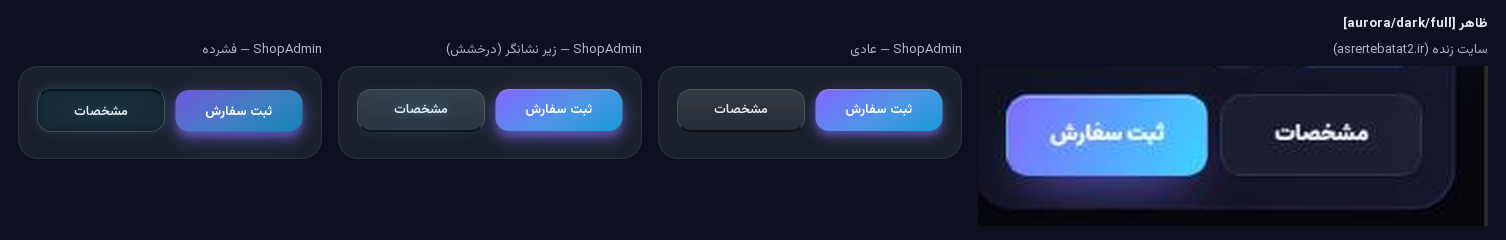
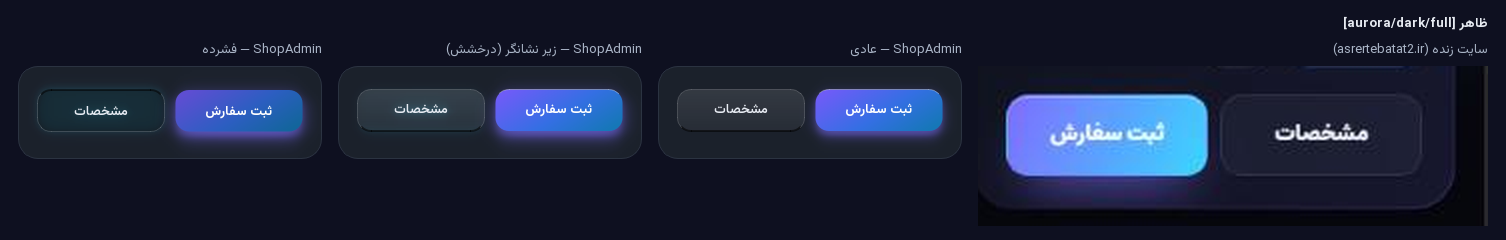
v2.15.0: version, AA-safe site gradient, tests and status docs (all suites green, three audits 0 in 9 looks)

Changed region(s): [[0.3121, 0.35, 0.4369, 0.5542], [0.1248, 0.35, 0.2185, 0.5542], [0.5305, 0.35, 0.6242, 0.5542]]

diff --git a/shopadmin/app/ui/theme.py b/shopadmin/app/ui/theme.py
@@ -569,18 +569,19 @@ def _diagonal(start: str, end: str) -> str:
 
 #: v2.15.0: the live site's «ثبت سفارش» (assets/theme.css, origin/main):
 #: ``linear-gradient(115deg, #7c6cff, mix 55%, #38d6ff)``, white text. The same in
-#: every palette and mode. The violet is the site's own; the blue and cyan stops are
-#: a little deeper (the site's #57A6FF / #38D6FF give white text 2.5 / 1.7:1): white
-#: bold text keeps at least 3:1 on every stop (contrast_audit).
-SITE_GRAD = ("#7C6CFF", "#4E95E6", "#1E9BD6")
+#: every palette and mode. The stops keep the site's hues but are deeper (the site's
+#: #7C6CFF / #57A6FF / #38D6FF give white text 3.9 / 2.5 / 1.7:1): white text keeps
+#: WCAG AA 4.5:1 on every stop (contrast_audit, test_rendered_buttons_meet_aa_*).
+SITE_GRAD = ("#6E5CF7", "#346FE3", "#1677B8")
 #: the site's soft violet glow under it (``0 16px 34px -14px #7c6cff``)
 SITE_GLOW = "#7C6CFF"
 #: the site's «مشخصات» hover edge / halo (``--t-cyan``)
 SITE_CYAN = "#38D6FF"
 
 
-def site_gradient(lighter: float = 0.0, darker: float = 0.0) -> str:
-    """The site's 115° gradient (violet on the left, cyan on the right)."""
+def site_gradient(lighter: float = 0.0, darker: float = 0.0, middle: float = 0.55) -> str:
+    """The site's 115° gradient (violet on the left, cyan on the right); a hovered
+    button moves the middle towards violet (``middle``: same colours, still AA)."""
     def tone(color: str) -> str:
         if lighter:
             color = mix(color, "#FFFFFF", lighter)
@@ -588,7 +589,7 @@ def site_gradient(lighter: float = 0.0, darker: float = 0.0) -> str:
             color = mix(color, "#000000", darker)
         return color
     a, b, c = (tone(x) for x in SITE_GRAD)
-    return (f"qlineargradient(x1:0, y1:0.25, x2:1, y2:0.75, stop:0 {a}, stop:0.55 {b}, "
+    return (f"qlineargradient(x1:0, y1:0.25, x2:1, y2:0.75, stop:0 {a}, stop:{middle} {b}, "
             f"stop:1 {c})")
 
 
@@ -673,7 +674,7 @@ def _stylesheet_template() -> str:
     # a light top edge like its inset highlight, a violet glow from «جلوهها»)
     # «ساده» keeps the gradient too (cheap); only the glow / shadows go
     primary_fill = site_gradient()
-    primary_hover = site_gradient(lighter=0.04)
+    primary_hover = site_gradient(middle=0.35)
     primary_pressed = site_gradient(darker=0.15)
     primary_top = rgba("#FFFFFF", 0.35)
     success_fill = SUCCESS_FILL if simple else _diagonal(

diff --git a/shopadmin/tests/test_v260.py b/shopadmin/tests/test_v260.py
@@ -22,7 +22,7 @@ def test_app_version_matches_the_installer_and_the_server():
     server = re.search(r'^VERSION = "([^"]+)"',
                        (ROOT.parent / "shopapi" / "app" / "control.py").read_text(encoding="utf-8"),
                        re.M).group(1)
-    assert APP_VERSION == installer == server == "2.14.0"
+    assert APP_VERSION == installer == server == "2.15.0"
 
 
 def test_sidebar_shows_the_real_version(ui_context, admin_qapp):
@@ -31,7 +31,7 @@ def test_sidebar_shows_the_real_version(ui_context, admin_qapp):
     window = MainWindow(ui_context)
     from app.persian import to_persian_digits
 
-    assert window.version_label.text() == f"نسخهٔ {to_persian_digits('2.14.0')}"
+    assert window.version_label.text() == f"نسخهٔ {to_persian_digits('2.15.0')}"
 
 
 # ---- 2 + 3: order dialog ------------------------------------------------------------------------

diff --git a/shopadmin/tests/test_v290.py b/shopadmin/tests/test_v290.py
@@ -109,7 +109,8 @@ def test_apply_theme_switches_palette_mode_and_effects(keep_look):
     assert used == "simple" and theme.PALETTE == "aurora" and theme.MODE == "dark"
     assert theme.PRIMARY == "#5850D8" and theme.window_background() == theme.BACKGROUND
     assert "qlineargradient" not in stub.sheet.split("QPushButton {")[1].split("}")[0]
-    assert not stub.filters                               # simple: no shadow filter
+    # v2.15.0: «ساده» = only the hover glow (no shadows at rest)
+    assert len(stub.filters) == 1 and stub.filters[0].hover_only
     theme.apply_theme(stub, "light", palette="emerald", effects="full")
     assert theme.PRIMARY == "#047857" and "qradialgradient" in theme.window_background()
     assert "qradialgradient" in stub.sheet and len(stub.filters) == 1

diff --git a/shopapi/tests/test_v240.py b/shopapi/tests/test_v240.py
@@ -20,7 +20,7 @@ def test_server_and_installer_versions_match():
     match = re.search(r'^#define\s+MyAppVersion\s+"([^"]+)"', iss, re.MULTILINE)
     assert match, "MyAppVersion not found in ShopAdmin.iss"
     assert control.VERSION == match.group(1)
-    assert control.VERSION == "2.14.0"
+    assert control.VERSION == "2.15.0"
 
 
 # ---- forgot password ---------------------------------------------------------

diff --git a/shopadmin/app/paths.py b/shopadmin/app/paths.py
@@ -13,7 +13,7 @@ from pathlib import Path
 
 APP_NAME = "ShopAdmin"
 APP_TITLE_FA = "مدیریت فروشگاه"
-APP_VERSION = "2.14.0"  # keep equal to installer/ShopAdmin.iss MyAppVersion (test_version.py)
+APP_VERSION = "2.15.0"  # keep equal to installer/ShopAdmin.iss MyAppVersion (test_version.py)
 
 ORG_NAME = "ShopAdmin"
 

diff --git a/shopapi/tests/test_v260.py b/shopapi/tests/test_v260.py
@@ -268,7 +268,7 @@ def test_status_code_is_editable_with_the_same_validation():
 
 
 def test_version():
-    assert control.VERSION == "2.14.0"
+    assert control.VERSION == "2.15.0"
 
 
 def test_staff_see_every_group(client, reader, db):

diff --git a/shopapi/app/control.py b/shopapi/app/control.py
@@ -22,7 +22,7 @@ from typing import Callable, Optional
 
 from .util import now_utc
 
-VERSION = "2.14.0"
+VERSION = "2.15.0"
 STARTED_AT = now_utc()
 
 

diff --git a/CLAUDE.md b/CLAUDE.md
@@ -47,7 +47,8 @@ build_all.bat        # (ریشه) ShopSystem → تست shopadmin → ShopAdmin 
 **هرگز `git push` نکن مگر مالک در همان پیام صریحاً بخواهد** (از 2026-10-20؛ مراحل انتشار فقط commit محلی است).
 ریپوی محلی، شاخهٔ `main`. `.gitignore` ریشه `.env`، `*.db`، `*.log`، `.venv`، `build/`، `dist/`، `*.spec` و … را بیرون نگه میدارد. قبل از commit: `git status` و مطمئن شو هیچ `.env`/`.db` stage نشده.
 
-## وضعیت (2026-10-28)
+## وضعیت (2026-11-01)
+- **نسخه ۲٫۱۵٫۰ (2026-11-01، بیحضور مالک، بیدسترسی مدیر):** (۱) نوار «حالت آزمایشی»: علت = نوار وضعیت هنگام شروع برنامه را نگه میداشت (پس از روشن کردن «ثبت واقعی» و راهاندازی دوبارهٔ سرویس کهنه میماند)؛ اکنون هر پاسخ «تنظیمات سرور فروشگاه»، هر ۶۰ ثانیه و پس از وصل شدن دوباره تازه میشود و دقیقاً میگوید چه کم است (فهرست مجاز / «ثبت واقعی» / پایگاهداده / «کد وضعیت سفارش») با دکمهٔ همان تنظیم؛ همه برقرار = بینوار. (۲) نصبکنندهٔ سرور پس از هر ارتقا «راهاندازی سرور» را با کادرهای خالی باز میکرد (اولین پایگاهداده = «hesab5»، فهرست مجاز و «ثبت واقعی» خالی) → فقط برای سرور تازه (`Check: IsNewServer`)؛ پنجرهٔ راهاندازی روی سرور موجود همیشه با تنظیمات فعلی؛ ترتیب `ACCOUNTING_DATABASE`/`DB_NAME` مثل سرور و دوقلوها همزمان نوشته میشوند؛ تست شبیهسازی ارتقا (`shopsystem/tests/test_v2150.py`). (۳) دکمهها مثل سایت زنده (CSS `origin/main`): اصلی = گرادیان ۱۱۵° بنفش→آبی→فیروزهای با درخشش بنفش، عادی = پرشدهٔ روشن نرم با لبهٔ خنثی، hover درخشش، فشرده فرورفته، در هر ۹ ظاهر؛ کنار هم با سایت: `shopadmin/docs/screens_2.15.0/buttons/gallery_all.png`. (۴) «سایت»: تیک هر ردیف + «انتخاب همه» + «حذف»/«پنهان»/«نمایش» گروهی (حذف ۴۸ ساعت برگشت، کل گروه با یک انتخاب). عکسهای ShopAdmin واقعی روی سرور زنده: `shopadmin/docs/screens_2.15.0/`. جزئیات و تصمیمها `PROGRESS.md` (۲٫۱۵٫۰). **نصب نشده.**
 - **نسخه ۲٫۱۴٫۰ (2026-10-28، بیحضور مالک، شاخهٔ `claude/site-shopadmin-tree-bb74e8`):** «سایت» › «کالاها» = درخت (گوشیها ← برند ← مدل، لوازم جانبی ← دسته ← کالا) با «افزودن از PDF» (جدول: یک ردیف = یک کالا با عکس همان ردیف؛ نمونهٔ پاوربانک ۳۵/۳۵)، حذف تکرار هوشمند («یکی است/جداست»)، بررسی عدد شبیه قیمت پیش از انتشار، «حذف» با ۴۸ ساعت برگشت؛ سایت (commit محلی `3ca2aba`): لوازم جانبی دستهبهدسته با فیلتر برند، بی`USE_UNLICENSED_PHOTOS`. همهٔ فهرستها: تککلیک = انتخاب، حفظ ردیف/اسکرول. لیست قیمت: دکمههای نگهداشته با راهنما، نام بایگانی درست، منبع قیمت هر قلم. دکمههای تازه (گرادیان آبی→بنفش، دکمهٔ نرم). «کانال قیمت دیگر» (PDF/عکس با OCR ویندوز/Excel/متن، پایهٔ موقت با برگشت خودکار؛ دقت OCR روی ردیفهای مطمئن ۹۴٪). «سلامت سیستم». جزئیات و تصمیمها `PROGRESS_SITE.md`. تستها: shopapi ۵۶۹، shopbots ۲۸۷، shoptg ۸۹، shopsystem ۷۹، shopadmin ۷۷۵ ✓. **نصب و روی سرویس/کانال واقعی آزموده نشده.**
 - **نسخه ۲٫۱۳٫۰ (2026-10-27، بیحضور مالک، بدون دسترسی مدیر ویندوز):** آزمون ۲٫۱۲٫۰ نصبشده با UI Automation (`pywinauto`) و لاگهای خواندنی. علتها: **لیست ۱۴۰۵/۰۸/۰۵** = سرستون دوم نقد/روال برای «TABLET XIAOMI» (خواننده فقط زیربخش را میپذیرد، ۲۰۸ ردیف)؛ **فهرست پایگاهداده** = `ShopSystem.exe` فریزشده خروجی فارسی را با cp1252 چاپ میکرد → `UnicodeEncodeError` → هیچ «دسترسی نیست»ی به ShopAdmin نمیرسید (اکنون JSON فقط ASCII + stdout UTF-8؛ انتخاب پایگاهداده = ذخیره + آزمایش + دادن خودکار دسترسی)؛ **پشتیبان** = `\\192.168.20.150\E` رایانهٔ دیگری است (این PC = 192.168.40.100) و `NT SERVICE\ShopServer` آنجا نام کاربری ندارد → «نام کاربری/گذرواژهٔ رایانهٔ مقصد» (`netshare.py`, WNetAddConnection2)؛ **کارگر تلگرام** (لاگ بیدسترسی مدیر خوانده نشد): پرچم سلامت فایل + سقف ۳۰ دقیقه برای هر دور + وضعیت هنگام FloodWait + جستوجوی یکبارهٔ کانال؛ سرپرست کارگرِ بینشان را میکشد و دوباره راه میاندازد، یک اعلان برای هر رخداد. تازه: «دریافت لیست اکنون»، «خواندن دوباره» هر لیست، بایگانی `pricelists\1405-08-05-1.pdf` (هرگز خودکار پاک نمیشود؛ یادآوری ۱ فروردین/تیر/مهر/دی؛ «باز کردن پوشه»)، دکمههای شیشهای با درخشش نرم، ستونهای مرتب «عنوان: مقدار» و متن بیشکستگی، پنجرهها درون و وسط پنجرهٔ اصلی. جزئیات و تصمیمها `PROGRESS.md` (۲٫۱۳٫۰). **نصب نشده؛ روی سرویس واقعی آزموده نشده (نیاز به دسترسی مدیر).**
 - **نسخه ۲٫۱۲٫۰ (2026-10-27): سایت فقط ویترین (بدون سبد) + «ظاهر و چیدمان» در ShopAdmin.** سبد سایتِ ۲٫۱۱٫۰ پیش از هر انتشار حذف شد: سایت (commit محلی `1d7d23c`)، رباتها و سرور (`site_cart.py`، `POST /cart-requests`، `/start c_`)؛ `shopbots/` دوباره عین ۲٫۱۰٫۰؛ فروش فقط با سبد و روال خود ربات؛ دکمهٔ «خرید از ربات» هر مدل (`start=m_`) ماند. «سایت» › «ظاهر و چیدمان» (`shopadmin/app/site/look.py`، `app/ui/site_look.py`): ترتیب برندها/گوشیها/لوازم جانبی، «تازهترین گوشیها»، شش رنگبندی آماده، لوگو، بنر (متن، سه نشان، تا ۳ عکس)، ترتیب و نمایش بخشها، اطلاعات فروشگاه (آدرس، تلفن، ساعت، درباره ما، پیوند ربات/کانال/نقشه)؛ انتشار = `assets/catalog/site.json` (`asr-site-look` v1) در همان commit کاتالوگ (برگرداندن ۴۸ ساعته هر دو را برمیگرداند)؛ «پیشنمایش در مرورگر» (`app/site/preview.py`، کد خود سایت + دادهٔ این رایانه روی 127.0.0.1). سایت (commit محلی `25ad4f2`): site.json را با بررسی دوباره و بازگشت امن میخواند. آزمون سرتاسری با GitHub آزمایشی: `shopadmin/scripts/e2e_site_mock.py` (۳۰/۳۰). **هرگز به مخزن واقعی چیزی فرستاده نشد؛ commitهای محلی سایت push نشدهاند.** تستها: shopapi ۵۴۴، shopbots ۲۸۷، shoptg ۸۱، shopsystem ۶۷، shopadmin ۷۳۳ ✓ (+ سه ممیزی در هر ۹ ظاهر = ۰). گامبهگام `PROGRESS_SITE.md`، تصمیمها §7j، راهنما `SITE_CATALOG.md`.
@@ -73,6 +74,7 @@ build_all.bat        # (ریشه) ShopSystem → تست shopadmin → ShopAdmin 
 - **هیچچیز روی سرور فروشگاه نصب/آزمون زنده نشده:** سرویس `ShopServer`، پشتیبان، دیوار آتش، ورود تلگرام (`shoptg`)، بلهٔ واقعی (پارامتر `start` نامطمئن؛ fallback = ارسال کد کالا)، کارتهای تصویری و نصبکنندهها.
 
 ## کارهای باز
+- [ ] ۲٫۱۵٫۰ روی این PC (مالک، با دسترسی مدیر): نصب ShopServerSetup و ShopAdminSetup ۲٫۱۵٫۰ روی ۲٫۱۴٫۰ — پس از نصب نباید پنجرهٔ «راهاندازی سرور» باز شود و پایگاهداده/فهرست مجاز/«ثبت واقعی» همان قبلی بماند؛ نوار زرد فقط اگر چیزی کم است (و دکمهاش همان تنظیم را باز کند)؛ دکمهها در چند ظاهر؛ «سایت» › تیک چند ردیف › «پنهان»/«نمایش»/«حذف» و «برگرداندن حذفشدهها…».
 - [ ] ۲٫۱۳٫۰ روی این PC (مالک، با دسترسی مدیر): نصب ShopServerSetup و ShopAdminSetup ۲٫۱۳٫۰؛ پس از راهاندازی، لیست ۱۴۰۵/۰۸/۰۵ خودکار دوباره خوانده میشود (یا «خواندن دوباره»)؛ «تنظیمات سرور» › پشتیبان: نام کاربری/گذرواژهٔ رایانهٔ 192.168.20.150 + «آزمایش»؛ انتخاب «hesab5» از فهرست (دسترسی خودکار)؛ «دریافت لیست اکنون»؛ `shoptg.log` و `supervisor.log` برای علت قطعی ۱۴۰۵/۰۸/۰۴.
 - [ ] ۲٫۱۲٫۰: مالک commitهای محلی `E:\DSH-Workspace\asr-site-live` را push کند (خوانندهٔ catalog.json و site.json؛ سبد دیگر نیست)؛ توکن GitHub (`SITE_CATALOG.md`)؛ در ShopAdmin «سایت» › «خواندن از پوشهٔ سایت…» (همین پوشه؛ برای پیشنمایش) یا «خواندن از سایت»، «ظاهر و چیدمان»، «پیشنمایش در مرورگر» و یک «انتشار» آزمایشی؛ پارامتر start بله با `m_…` روی بلهٔ واقعی.
 - [ ] عکسهای لازم سایت (فهرست در `PROGRESS.md` ۲٫۱۰٫۰)؛ تصمیم مالک دربارهٔ `USE_UNLICENSED_PHOTOS`؛ PDFهای واقعی لوازم جانبی و تنظیم `shopadmin/app/site/accessory_pdf.py`.

diff --git a/PROGRESS.md b/PROGRESS.md
@@ -18,19 +18,23 @@ Phases are defined in `REQUIREMENTS.md` §14. One phase per session.
 - [x] ۳. دکمهها مثل سایت زنده
   - **مرجع:** CSS سایت از `origin/main` در `E:\DSH-Workspace\asr-site-live` (`assets/theme.css`: `.btn--solid` = `linear-gradient(115deg, #7c6cff, …, #38d6ff)` + `inset 0 1px 0 rgba(255,255,255,.35)` + سایهٔ بنفش `0 16px 34px -14px`؛ `.btn--ghost` = پرشدهٔ ملایم ۵٪ رنگ متن با لبهٔ خنثی `rgba(20,30,60,.14)` / تیره `rgba(255,255,255,.17)` و سایهٔ کوچک `0 1px 2px`؛ hover = لبه و رنگ فیروزهای + بالا آمدن). عکس واقعی سایت زنده (asrertebatat2.ir، صفحهٔ Samsung، روشن و تیره) در `docs/screens_2.15.0/site_ref/`.
   - **علت عدم تطابق ۲٫۱۴٫۰:** دکمهٔ عادی لبهٔ رنگی (رنگ اصلی، ۳:۱ برای ممیزی ۲٫۹٫۴) داشت و سفید→رنگ ملایم بود؛ دکمهٔ اصلی گرادیان آبی→بنفشِ هر رنگبندی (زمرد سبز) و تیرهتر از سایت بود؛ «ساده» بیگرادیان و بیدرخشش.
-  - **رفع (`app/ui/theme.py`):** اصلی در هر ۹ ظاهر = گرادیان ۱۱۵° سایت (بنفش خود سایت `#7C6CFF` → `#4E95E6` → `#1E9BD6`؛ دو ایستگاه آخر کمی تیرهتر از سایت تا متن سفید پررنگ همهجا ≥ ۳:۱ بماند — سایت خودش در انتهای فیروزهای ۱٫۷:۱ است)، لبهٔ روشن بالا، درخشش بنفش زیر آن؛ عادی = پرشدهٔ روشن نرم (`#FAFBFD→#ECEFF5`، تیره: سفید ۱۱٪→۵٪)، لبهٔ خنثی کمرنگ و لبهٔ پایین مثل سایهٔ کوچک سایت، بیلبهٔ رنگی/تیره؛ hover = رنگ و لبهٔ فیروزهای + درخشش فیروزهای (اصلی: درخشش بنفش بزرگتر)؛ pressed = تیرهتر و فرورفته؛ زبانهٔ انتخابشده = گرادیان سایت. «ساده» هم گرادیان و درخشش hover دارد (فقط سایهٔ دائمی ندارد).
-  - **ممیزی دکمه:** قاعدهٔ «کمرنگ» از ۳:۱ به ۱٫۴:۱ (سبک «مشخصات» سایت؛ دکمهٔ بیپرشدگی و بیلبه هنوز ۱:۱ = خطا)؛ contrast_audit ایستگاههای گرادیان را با ۳:۱ میسنجد. `button_audit.py` = ۰ در ۹ ظاهر.
+  - **رفع (`app/ui/theme.py`):** اصلی در هر ۹ ظاهر = گرادیان ۱۱۵° سایت (همان رنگهای سایت ولی عمیقتر: `#6E5CF7` → `#346FE3` → `#1677B8`، تا متن سفید روی هر ایستگاه ≥ ۴٫۵:۱ (WCAG AA) بماند — سایت خودش ۳٫۹ / ۲٫۵ / ۱٫۷:۱ است؛ نسخهٔ روشنترِ نزدیکتر به سایت در تستهای AA موجود رد شد)، لبهٔ روشن بالا، درخشش بنفش زیر آن؛ عادی = پرشدهٔ روشن نرم (`#FAFBFD→#ECEFF5`، تیره: سفید ۱۱٪→۵٪)، لبهٔ خنثی کمرنگ و لبهٔ پایین مثل سایهٔ کوچک سایت، بیلبهٔ رنگی/تیره؛ hover = رنگ و لبهٔ فیروزهای + درخشش فیروزهای (اصلی: درخشش بنفش بزرگتر)؛ pressed = تیرهتر و فرورفته؛ زبانهٔ انتخابشده = گرادیان سایت. «ساده» هم گرادیان و درخشش hover دارد (فقط سایهٔ دائمی ندارد).
+  - **ممیزی دکمه:** قاعدهٔ «کمرنگ» از ۳:۱ به ۱٫۴:۱ (سبک «مشخصات» سایت؛ دکمهٔ بیپرشدگی و بیلبه هنوز ۱:۱ = خطا)؛ contrast_audit ایستگاههای گرادیان را هم میسنجد (۴۲۷/۴۲۷ AA). `button_audit.py` = ۰ در ۹ ظاهر.
   - **عکسها:** کنار هم (سایت | عادی | hover | فشرده) در هر ۹ ظاهر: `docs/screens_2.15.0/buttons/gallery_all.png` (+ هر ظاهر جدا)؛ ShopAdmin واقعی روی سرور زنده: `docs/screens_2.15.0/item3_live/`.
 - [x] ۴. چندانتخابی در فهرستهای «سایت»
   - `widgets.DataTable.enable_checks()`: ستون اول = تیک هر ردیف (`set_check`، `checked_keys`، `set_all_checked`، سیگنال `checks_changed`؛ ظاهر تیک جدول = همان تیکهای برنامه). «سایت» › گوشیها و لوازم جانبی: «انتخاب همه»، شمار «۳ انتخابشده»، «حذف» / «پنهان» / «نمایش» روی همهٔ تیکخوردهها (بیتیک = همان ردیف انتخابشده، مثل قبل). تیکها پس از هر بارگذاری دوباره میمانند.
   - حذف گروهی = `store.delete_many`: هر کالا مثل حذف تکی ۴۸ ساعت در «حذفشدهها» با یک شناسهٔ گروه؛ «برگرداندن حذفشدهها…» اول «همهٔ N مورد حذفشده با هم» را پیشنهاد میکند (`undelete_many`)؛ «برگرداندن انتشار قبلی» هم مثل قبل برمیگرداند. پیش از حذف تأیید با نام ۵ مورد اول و شمار بقیه.
   - **فهرستهای دیگر:** تیک گذاشته نشد. سفارشها، مشتریان و هر دادهٔ حسابداری ممنوع است؛ «درخواست کالا» پیام به مشتری میفرستد؛ نگاشت ردیفهای لیست قیمت تصمیم جدا برای هر ردیف است (نگاشت اشتباه گروهی = قیمت/کالای اشتباه برای مشتری)؛ کاربران/پراکسی/بایگانی کار گروهی امنی ندارند.
   - **تست:** `tests/test_v2150_bulk.py` (۶). عکس واقعی ShopAdmin روی دادهٔ واقعی این رایانه (فقط تیک روی صفحه، چیزی ذخیره نشد): `docs/screens_2.15.0/item4_live/site.png`، `site_ticked.png`.
-- [ ] تست همه + سه ممیزی + نسخه + بیلد + Outputs
+- [x] تست همه + سه ممیزی + نسخه ۲٫۱۵٫۰
+  - تستها: shopapi ۵۶۹، shopbots ۲۸۷، shoptg ۸۹، shopsystem ۸۴ (با `TEMP` در پوشهٔ قابل نوشتن: `test_update_from_zip…` در `%TEMP%` این PC «Access is denied» میگیرد — مشکل قدیمی پوشهٔ موقت، فایلهایش از فاز ۴ دست نخورده)، shopadmin ۷۹۴ ✓.
+  - سه ممیزی در ۹ ظاهر: متن بریده ۰، RTL ۰، دکمه ۰؛ contrast_audit ۴۲۷/۴۲۷ AA.
+- [ ] commit، بیلد، ProductVersion، Outputs
 
 ### تصمیمها
 - ارتقا هیچ پنجرهٔ تنظیمی باز نمیکند؛ برای تغییر، میانبر «تنظیمات سرور» روی میزکار.
-- دکمهٔ اصلی در هر سه رنگبندی همان گرادیان سایت است (نه رنگ هر رنگبندی)؛ ایستگاههای آبی/فیروزهای کمی تیرهتر از سایت برای خوانایی متن سفید.
+- دکمهٔ اصلی در هر سه رنگبندی همان گرادیان سایت است (نه رنگ هر رنگبندی)؛ رنگها عمیقتر از سایت تا قاعدهٔ AA خود برنامه (۴٫۵:۱ متن سفید) بماند — شکل، جهت، لبهٔ روشن بالا و درخشش بنفش همان سایت است.
+- قاعدهٔ «کمرنگ» ممیزی دکمه به درخواست صریح مالک (بیلبهٔ رنگی/تیره) از ۳:۱ به ۱٫۴:۱ آمد.
 - «ساده» درخشش hover دارد (فقط برای دکمهٔ زیر نشانگر ساخته و با رفتن نشانگر برداشته میشود)؛ سایهٔ دائمی پنل/دکمه همچنان فقط در «کامل».
 - نوار «حالت آزمایشی» برای کاربر فروش فقط متن دارد (دکمهٔ تنظیم فقط برای کسی که «تنظیمات سرور فروشگاه» را میبیند).
 
